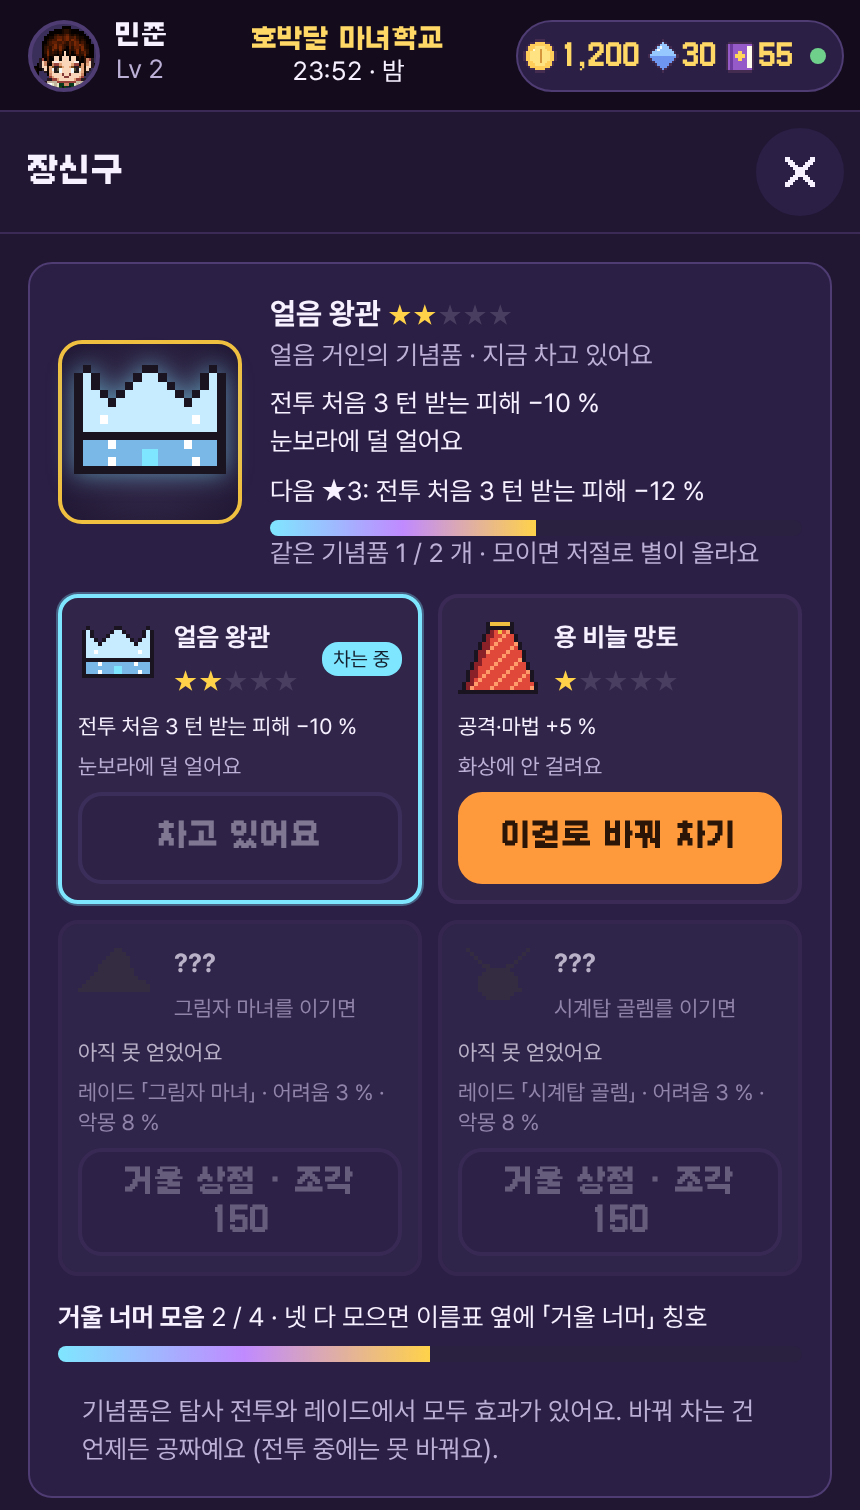
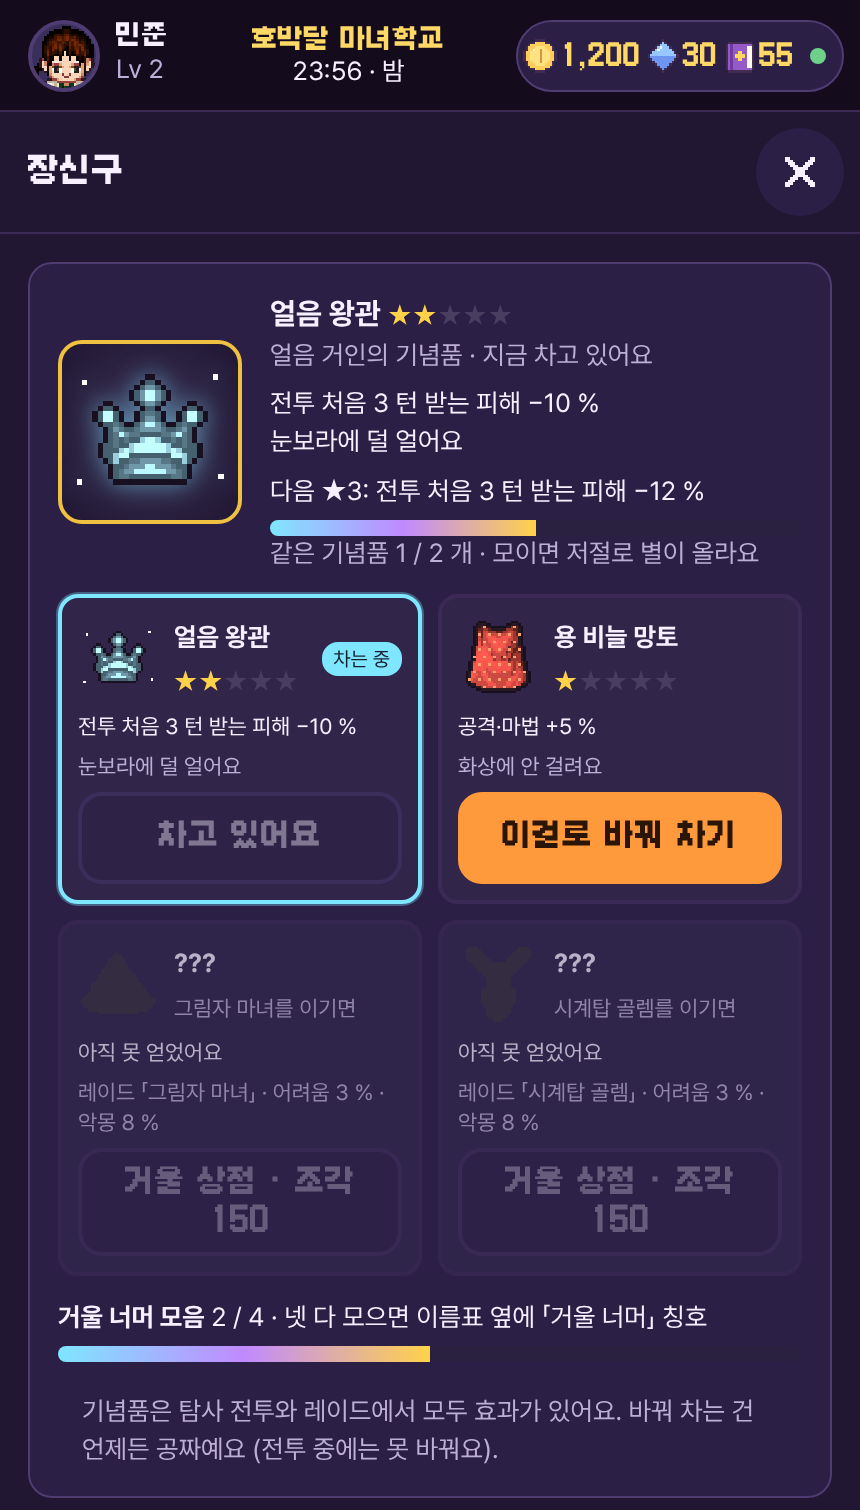
레이드 시안: 보스 기념품 아이콘을 LPC 부품에서 잘라 다시 만듦 (왕관 · 망토 · 모자 · 목걸이)
Claude-Session: https://claude.ai/code/session_01HhJ2NoNCjk5kaA3GWL7UDs

diff --git a/tools/raid_mock/acc_mock.js b/tools/raid_mock/acc_mock.js
@@ -1,24 +1,17 @@
 // 보스 기념품(장신구) 시안: 모의 사이트에서 window.__accMock('lobby' | 'view' | 'pick') 로 화면을 보여 줘요
-window.__accIc = (() => { const C = {}; return (k, own = true) => { const key = k + own; if (C[key]) return C[key];
-  const c = document.createElement('canvas'); c.width = c.height = 20; const g = c.getContext('2d'), P = (x, y, f) => { g.fillStyle = f; g.fillRect(x, y, 1, 1); }, R = (x, y, w, h, f) => { g.fillStyle = f; g.fillRect(x, y, w, h); };
-  const pix = (rows, pal) => rows.forEach((r, y) => [...r].forEach((ch, x) => { if (ch !== '.') P(x, y + 1, pal[ch]); }));
-  const A = {
-    crown: [['....................', '..o.....o..o.....o..', '.olo...olo.olo...olo', '.ollo.ollo.ollo.ollo', '.olllolllllllllollo.', '.olllllllllllllllo..', '.ollwllllgllllwlllo.', '.olllllllllllllllo..', '.oddddddddddddddddo.', '.odlddglddddgldddlo.', '.oddddddddddddddddo.', '..oooooooooooooooo..'], { o: '#1a1420', l: '#c8ecff', d: '#7ab8e8', w: '#ffffff', g: '#7fe6ff' }],
-    cape: [['......oooooooo......', '.....oyyyyyyyyo.....', '....odlllllllldo....', '...odllllllllllddo..', '...odlllsllsllllddo.', '..odllllllllllllldo.', '..odlllsllllsllllddo', '..odllllllllllllllddo', '.odlllllsllllslllldo', '.odllllllllllllllldo', '.odddlddlddlddldddo.', '..ooo.ooo.ooo.oooo..'], { o: '#1a1420', l: '#e0483a', d: '#8a2028', s: '#ff9a6a', y: '#f0c040' }],
-    hat: [['.........oo.........', '........oddo........', '.......odlldo.......', '......odllldo.......', '.....odlllldo.......', '.....odllllldo......', '....odlllllldo......', '...oppppppppppo.....', '..odllllllllllldo...', '.odddddddddddddddo..', 'oooooooooooooooooo..'], { o: '#1a1420', l: '#5a3288', d: '#28143e', p: '#c08aff' }],
-    neck: [['..o..............o..', '...o............o...', '....o..........o....', '.....o........o.....', '......oo....oo......', '.......oooooo.......', '......oyyyyyyo......', '.....oyccccccyo.....', '.....oycckcccyo.....', '.....oyckkcccyo.....', '.....oycccccc yo....', '......oyyyyyyo......', '.......oooooo.......'], { o: '#1a1420', y: '#e8b858', c: '#fff4d0', k: '#4a2e10', ' ': '#e8b858' }],
-  }[k];
-  if (k === 'crown') pix(['....................', '..o......oo......o..', '.oLo....oLLo....oLo.', '.oLo...oLLLLo...oLo.', '.oLLo.oLLLLLLo.oLLo.', '.oLLLoLLLLLLLLoLLLo.', '.oLLLLLLLLLLLLLLLLo.', '.oLLWLLLLLLLLLLWLLo.', '.oLLLLLLLLLLLLLLLLo.', '.oooooooooooooooooo.', '.oDDDGDDDDDDDDGDDDo.', '.oDDDDDDDCCDDDDDDDo.', '.oDDDGDDDCCDDDDGDDo.', '.oooooooooooooooooo.'], { o: '#1a1420', L: '#c8ecff', W: '#ffffff', D: '#7ab8e8', G: '#ffffff', C: '#7fe6ff' });
-  else if (k === 'cape'){ for (let y = 2; y < 19; y++){ const hw = 3 + (y - 2) * .42, cx = 10; for (let x = Math.round(cx - hw); x <= Math.round(cx + hw); x++){ const e = x === Math.round(cx - hw) || x === Math.round(cx + hw) || y === 18; P(x, y, e ? '#1a1420' : (x < cx - hw + 2.2 ? '#8a2028' : (x + y) % 5 === 0 ? '#ff9a6a' : '#e0483a')); } } R(7, 1, 7, 2, '#1a1420'); R(8, 1, 5, 1, '#f0c040'); P(10, 3, '#f0c040'); for (let x = 3; x < 18; x += 3) P(x, 18, '#00000000'); }
-  else pix(...A);
-  if (!own){ const d = g.getImageData(0, 0, 20, 20); for (let i = 0; i < d.data.length; i += 4) if (d.data[i + 3]) { d.data[i] = d.data[i + 1] = d.data[i + 2] = 60; d.data[i + 3] = 160; } g.putImageData(d, 0, 0); }
-  return (C[key] = c.toDataURL()); }; })();
+//   기념품 그림: art/raid_acc.png (LPC 부품에서 잘라 만든 32 칸 × 4, tools/iso/lpc/raid_acc_lpc.py)
+window.__accIcs = {};
+window.__accLoad = () => new Promise(r => { const im = new Image(); im.onload = () => { ['crown', 'cape', 'hat', 'neck'].forEach((k, i) => [true, false].forEach(own => { const c = document.createElement('canvas'); c.width = c.height = 32; const g = c.getContext('2d'); g.drawImage(im, i * 32, 0, 32, 32, 0, 0, 32, 32);
+  if (!own){ const d = g.getImageData(0, 0, 32, 32); for (let j = 0; j < d.data.length; j += 4) if (d.data[j + 3]) { d.data[j] = d.data[j + 1] = d.data[j + 2] = 60; d.data[j + 3] = 160; } g.putImageData(d, 0, 0); }
+  __accIcs[k + own] = c.toDataURL(); })); r(); }; im.src = 'art/raid_acc.png?v=' + Date.now(); });
+window.__accIc = (k, own = true) => __accIcs[k + own];
 window.__ACC = [
   { k: 'crown', n: '얼음 왕관', b: '얼음 거인', st: 2, cp: 1, own: true, on: true, e: s => `전투 처음 3 턴 받는 피해 −${6 + s * 2} %`, x: '눈보라에 덜 얼어요' },
   { k: 'cape', n: '용 비늘 망토', b: '불꽃 용', st: 1, cp: 0, own: true, e: s => `공격·마법 +${3 + s * 2} %`, x: '화상에 안 걸려요' },
   { k: 'hat', n: '그림자 모자', b: '그림자 마녀', own: false, e: s => `피하기 「완벽」 고리 조금 넓게 · 치명타 +${3 + s * 2} %`, x: '그림자 손에 안 붙잡혀요' },
   { k: 'neck', n: '톱니 시계 목걸이', b: '시계탑 골렘', own: false, e: s => `행동 게이지 +${4 + s * 2} %`, x: '시간 멈춤에 안 걸려요' }];
 window.__accMock = async (mode) => {
+  await __accLoad();
   const ex = window.__T.meRaw().ex = Object.assign(window.__T.meRaw().ex || {}, { job: 'black', exp: 60000, ar: 2, wp: 2, n: 0, xv: 3 });
   window.__T.openSheet('home', 'explore'); await new Promise(r => setTimeout(r, 600));
   const hideToast = () => [...document.querySelectorAll('*')].filter(e => e.children.length === 0 && /희미한 마법/.test(e.textContent)).forEach(e => { let q = e; while (q.parentElement && q.parentElement !== document.body) q = q.parentElement; q.style.display = 'none'; }); hideToast(); setTimeout(hideToast, 300);

diff --git a/tools/iso/lpc/raid_acc_lpc.py b/tools/iso/lpc/raid_acc_lpc.py
@@ -1,0 +1,81 @@
+# 레이드 보스 기념품 아이콘 4 종을 LPC 부품에서 잘라 만들어요 (캐릭터 · 보스와 같은 화풍) → tools/raid_mock/raid_acc.png (32 칸 × 4)
+#   0 얼음 왕관 (왕관) · 1 용 비늘 망토 (망토 뒷모습) · 2 그림자 모자 (마법사 모자) · 3 톱니 시계 목걸이 (사슬 + 둥근 장식)
+#   python3 raid_acc_lpc.py <LPC 저장소 경로> [미리보기.png]
+import sys, os, subprocess, colorsys
+sys.argv = sys.argv[:3]
+import numpy as np
+from PIL import Image
+HERE = os.path.dirname(os.path.abspath(__file__)); sys.path.insert(0, HERE)
+from npc_lpc import over, LPC, ROWS, FILES
+ROOT = os.path.join(HERE, '..', '..', '..'); OUT = os.path.join(ROOT, 'tools', 'raid_mock', 'raid_acc.png')
+OL = np.array([24, 16, 32, 255], np.uint8)
+def frame(f, d='down', col=0):
+    a = np.array(Image.open(os.path.join(LPC, f)).convert('RGBA')); y = ROWS[d] * 64
+    return a[y:y + 64, col * 64:col * 64 + 64]
+def hueL(a, h, sat=1.0, val=1.0):
+    out = a.copy()
+    for y, x in zip(*np.nonzero(a[..., 3])):
+        r, g, b, _ = a[y, x]; hh, ss, vv = colorsys.rgb_to_hsv(r / 255, g / 255, b / 255)
+        if vv < .16: continue
+        ss = max(ss, .55)
+        rr, gg, bb = colorsys.hsv_to_rgb(h, min(1, ss * sat), min(1, vv * val)); out[y, x, :3] = (int(rr * 255), int(gg * 255), int(bb * 255))
+    return out
+def tintL(a, c, k):
+    out = a.copy().astype(float); m = a[..., 3] > 0
+    lum = (out[..., 0] * .3 + out[..., 1] * .59 + out[..., 2] * .11) / 255
+    for i in range(3): out[..., i] = np.where(m, out[..., i] * (1 - k) + c[i] * (.45 + lum) * k, out[..., i])
+    return np.clip(out, 0, 255).astype(np.uint8)
+def crop(a):
+    ys, xs = np.nonzero(a[..., 3]); return a[ys.min():ys.max() + 1, xs.min():xs.max() + 1]
+def icon(a, extra=None, lim=28):
+    a = crop(a); h, w = a.shape[:2]; s = max(1, min(lim // w, lim // h))
+    a = np.kron(a, np.ones((s, s, 1), np.uint8)); h, w = a.shape[:2]
+    c = np.zeros((32, 32, 4), np.uint8); y0, x0 = (32 - h) // 2, (32 - w) // 2; over(c[y0:y0 + h, x0:x0 + w], a)
+    for y in range(32):   # 바깥 테두리 (LPC 아이템처럼)
+        for x in range(32):
+            if c[y, x, 3] == 0 and any(0 <= y + dy < 32 and 0 <= x + dx < 32 and c[y + dy, x + dx, 3] > 0 and not (c[y + dy, x + dx] == OL).all() for dy, dx in ((1, 0), (-1, 0), (0, 1), (0, -1))): c[y, x] = OL
+    if extra: extra(c)
+    return c
+def P(c, pts, col):
+    for x, y in pts:
+        if 0 <= x < 32 and 0 <= y < 32: c[y, x] = col
+F = {k: v for k, v in dict(
+    crown='spritesheets/hat/formal/crown/adult/walk.png', cape_bg='spritesheets/cape/solid/bg/walk.png', cape_fg='spritesheets/cape/solid/fg/walk.png',
+    hat='spritesheets/hat/magic/wizard/base/adult/walk.png', chain='spritesheets/neck/necklace/chain', charm='spritesheets/neck/charm/oval').items()}
+def pick(p):
+    if p.endswith('.png'): return p
+    c = sorted(f for f in FILES if f.startswith(p + '/') and '/walk' in f and f.endswith('.png'))
+    gold = [f for f in c if 'gold' in f]; return (gold or c)[0]
+F = {k: pick(v) for k, v in F.items()}
+need = [f for f in F.values() if not os.path.exists(os.path.join(LPC, f))]
+if need: subprocess.run(['git', '-C', LPC, 'sparse-checkout', 'add', '--skip-checks', *need], check=True)
+# 0 얼음 왕관
+cr = tintL(frame(F['crown']), (150, 215, 255), .85)
+def ice_sp(c): P(c, [(6, 9), (25, 8), (27, 20)], np.array([255, 255, 255, 255], np.uint8)); P(c, [(5, 9), (7, 9), (6, 8), (6, 10)], np.array([190, 240, 255, 255], np.uint8))
+I0 = icon(cr, lambda c: None, 32)
+P(I0, [(3, 6), (28, 5), (29, 24), (2, 25)], np.array([255, 255, 255, 255], np.uint8))
+# 1 용 비늘 망토 (뒷모습: 위쪽을 보는 칸)
+cp = np.zeros((64, 64, 4), np.uint8); over(cp, frame(F['cape_bg'], 'up')); over(cp, frame(F['cape_fg'], 'up')); cp = hueL(cp, .01, 1.25, 1.05)
+def scales(c):
+    ys, xs = np.nonzero((c[..., 3] > 0) & ~(c == OL).all(-1))
+    for y, x in zip(ys, xs):
+        if (x + (y // 3) * 2) % 4 == 0 and y % 3 == 0: c[y, x, :3] = (255, 160, 110)
+I1 = icon(cp, scales)
+# 2 그림자 모자
+I2 = icon(tintL(frame(F['hat']), (120, 70, 190), .8), lambda c: P(c, [(x, y) for x in range(12, 20) for y in (22,)], np.array([192, 138, 255, 255], np.uint8)))
+# 3 톱니 시계 목걸이 (사슬 + 둥근 장식을 금빛으로, 장식에 시계 바늘)
+nk = np.zeros((64, 64, 4), np.uint8); over(nk, frame(F['chain'])); over(nk, frame(F['charm'])); nk = tintL(nk, (232, 184, 88), .7)
+def clockface(c):
+    ys, xs = np.nonzero(c[..., 3] > 0); cx, cy = int(xs.mean()), int(ys.max()) - 5
+    for dy in range(-4, 5):
+        for dx in range(-4, 5):
+            d = dx * dx + dy * dy
+            if d <= 20: c[cy + dy, cx + dx] = (184, 132, 46, 255) if d > 12 else (255, 244, 208, 255)
+            elif d <= 26 and c[cy + dy, cx + dx, 3] == 0: c[cy + dy, cx + dx] = OL
+    P(c, [(cx, cy), (cx, cy - 1), (cx, cy - 2), (cx + 1, cy), (cx + 2, cy)], np.array([60, 36, 12, 255], np.uint8))
+    for a, b in ((0, -4), (4, 0), (0, 4), (-4, 0), (-3, -3), (3, -3), (3, 3), (-3, 3)):
+        if a * a + b * b > 20: P(c, [(cx + a, cy + b)], np.array([232, 184, 88, 255], np.uint8))
+I3 = icon(nk, clockface)
+sheet = np.concatenate([I0, I1, I2, I3], axis=1); Image.fromarray(sheet).save(OUT); print('ok', OUT, F)
+if len(sys.argv) > 2:
+    pv = Image.new('RGBA', (128, 32), (52, 40, 76, 255)); pv.alpha_composite(Image.fromarray(sheet)); pv.resize((128 * 4, 128), Image.NEAREST).save(sys.argv[2])
